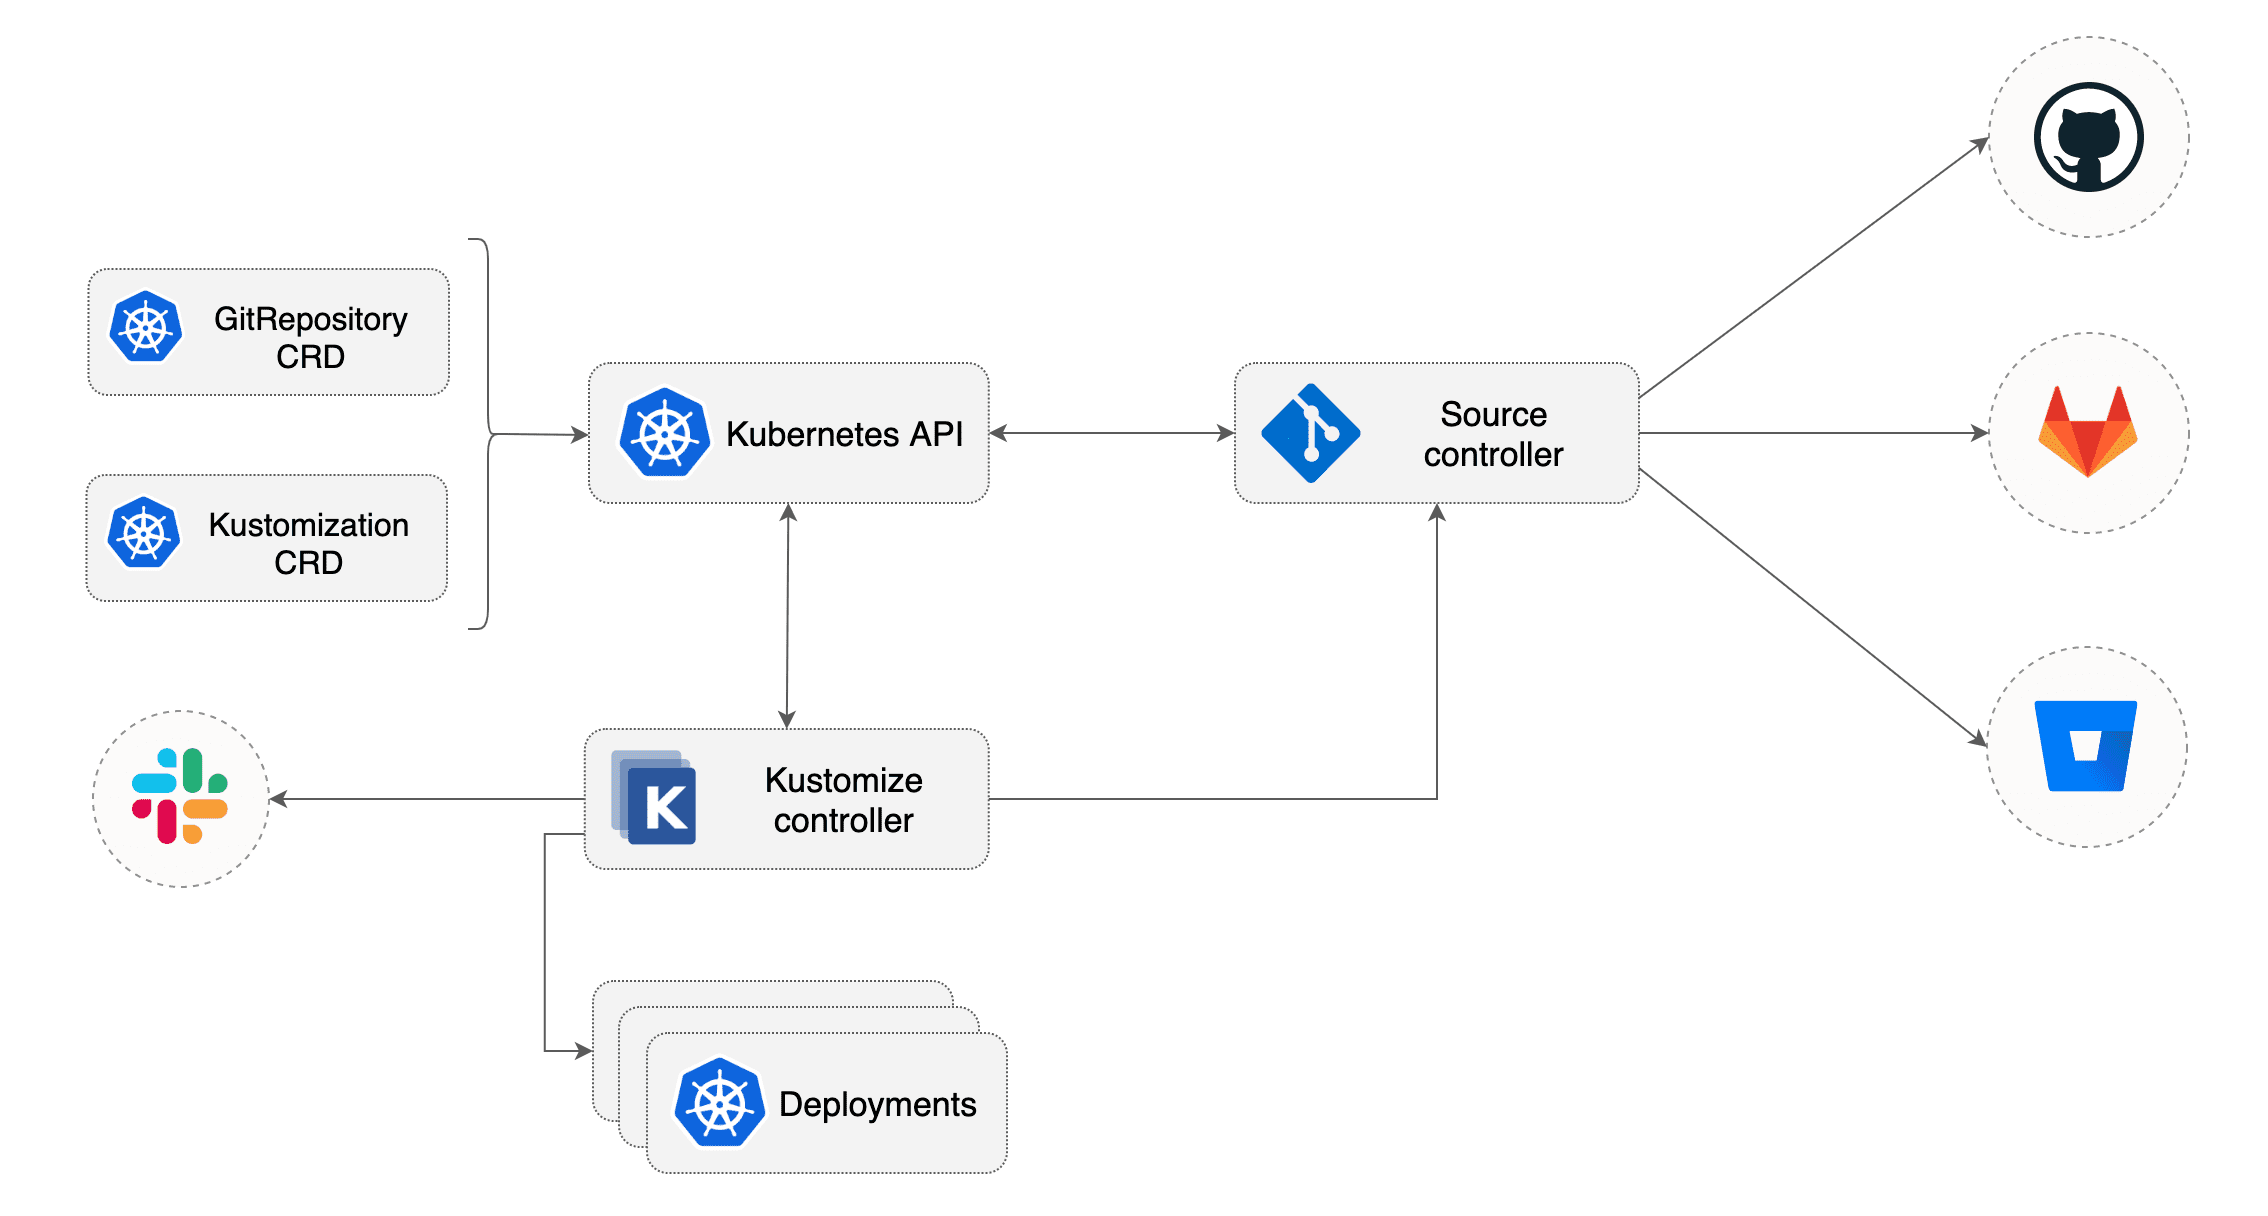
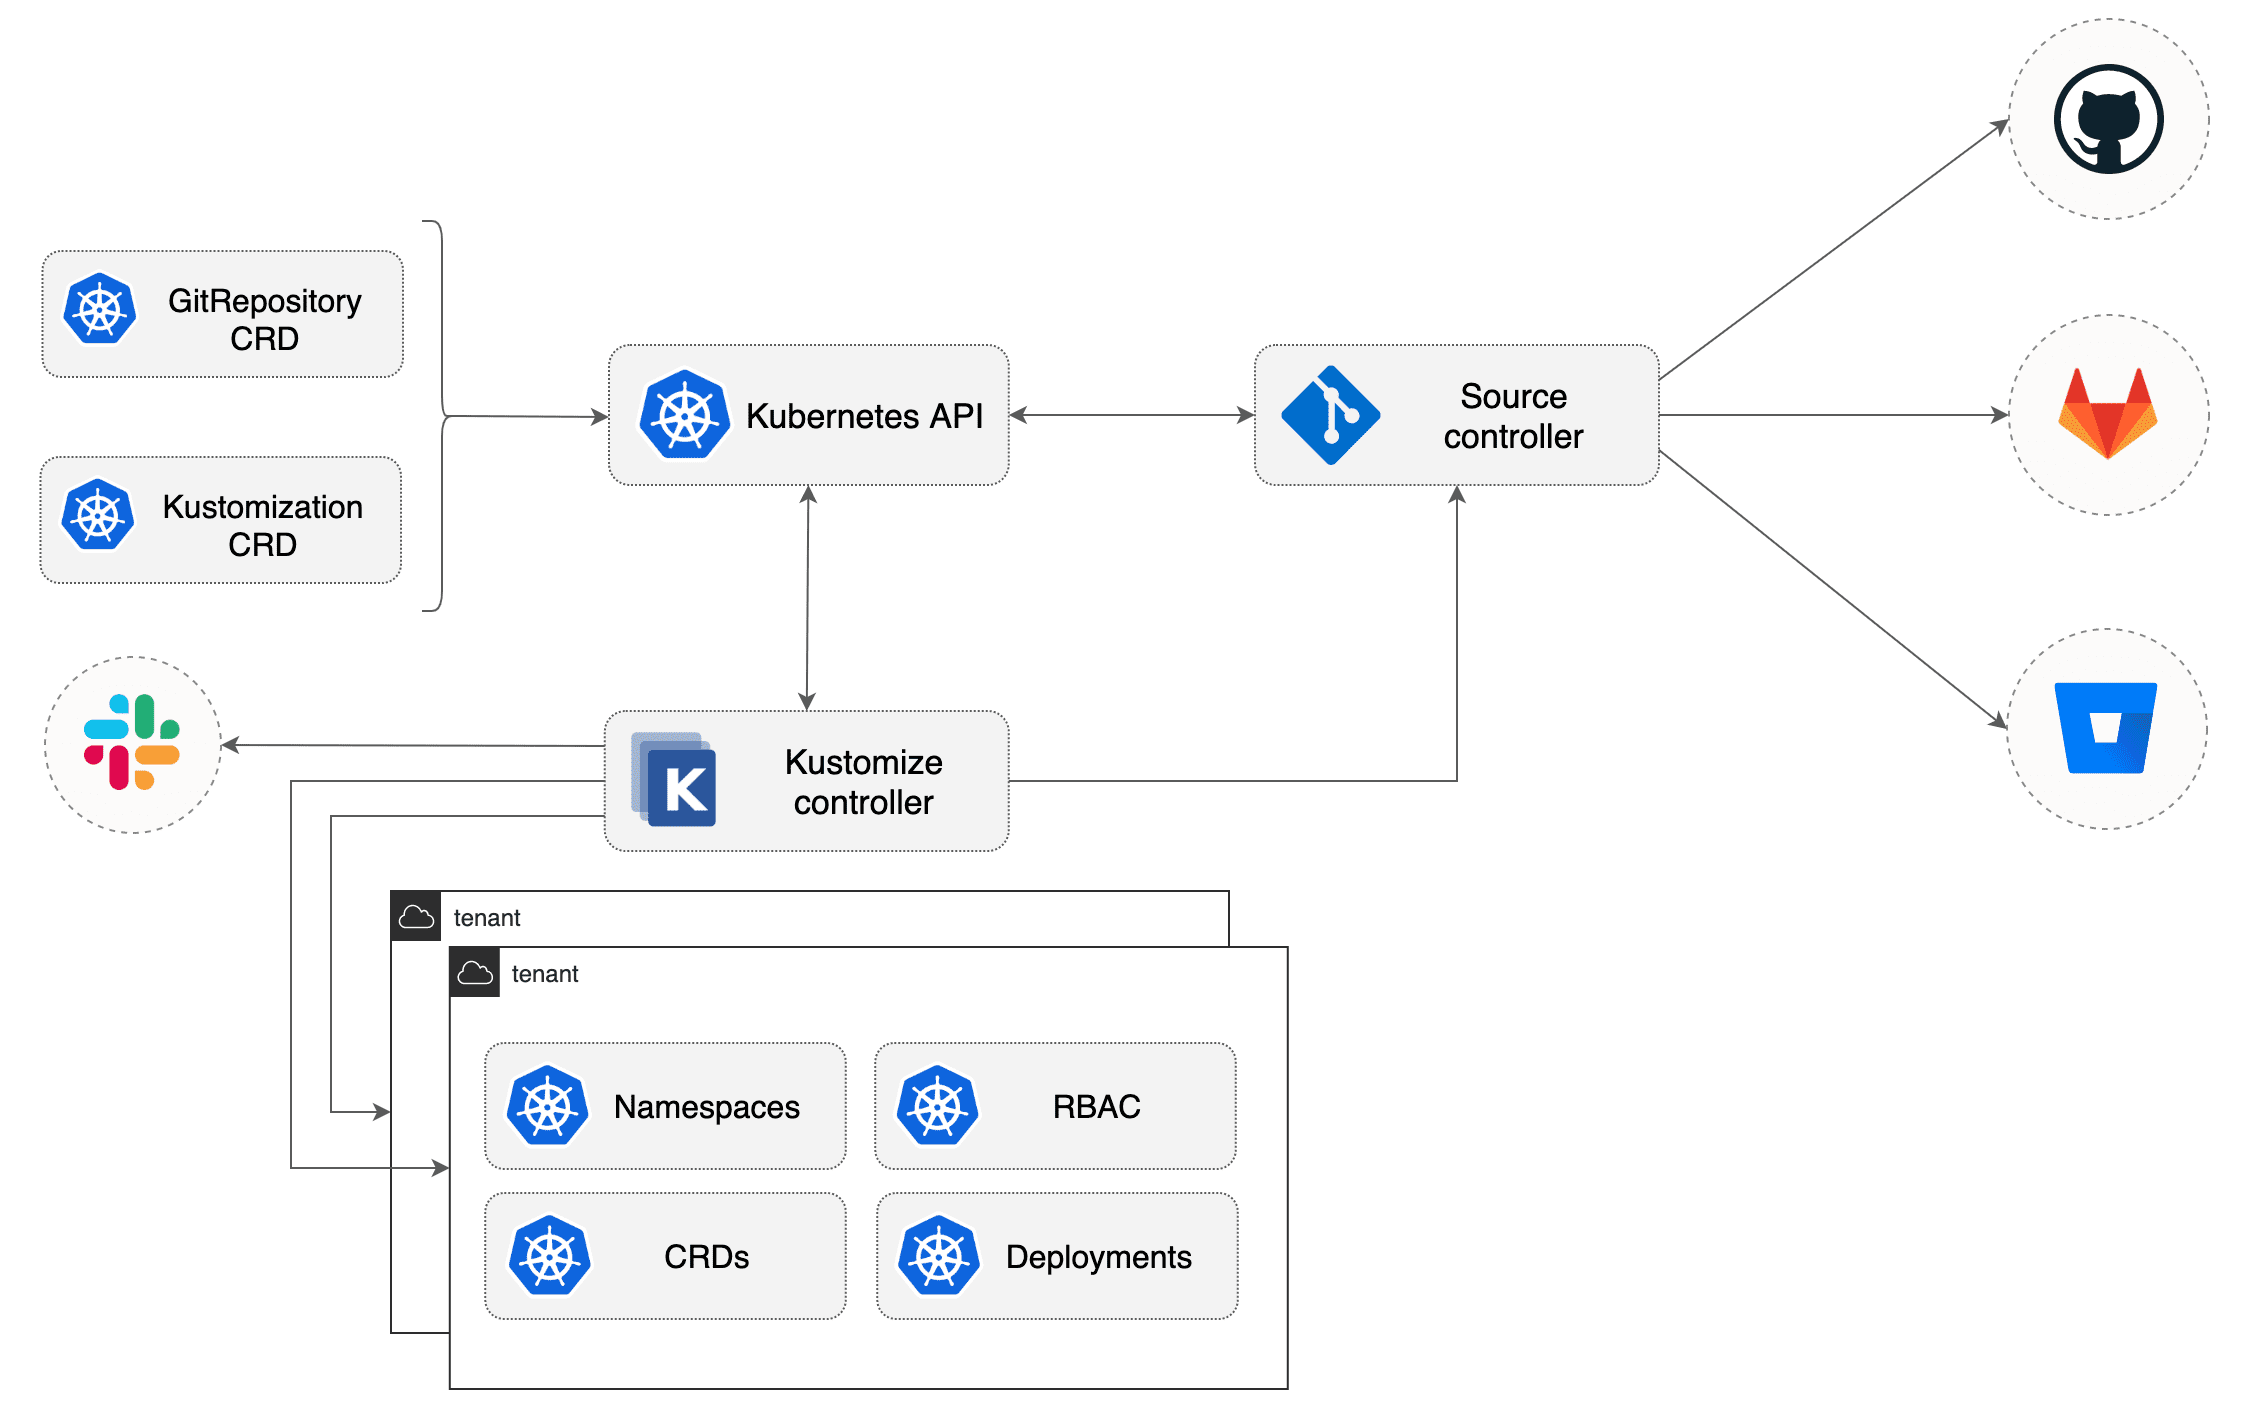
Release v0.0.1-alpha.6

diff --git a/CHANGELOG.md b/CHANGELOG.md
@@ -2,6 +2,12 @@
 
 All notable changes to this project are documented in this file.
 
+## 0.0.1-alpha.6 (2020-05-03)
+
+This alpha release comes with
+[role-based access control](https://github.com/fluxcd/kustomize-controller/blob/master/docs/spec/v1alpha1/kustomization.md#role-based-access-control)
+for restricting the execution of a kustomization apply to a specific service account.
+
 ## 0.0.1-alpha.5 (2020-04-27)
 
 This alpha release introduces an [intermediate state](https://github.com/fluxcd/kustomize-controller/pull/21)

diff --git a/README.md b/README.md
@@ -46,7 +46,7 @@ kubectl apply -f-
 Install kustomize-controller with:
 
 ```bash
-kustomize build https://github.com/fluxcd/kustomize-controller//config/default?ref=v0.0.1-alpha.5 \
+kustomize build https://github.com/fluxcd/kustomize-controller//config/default?ref=v0.0.1-alpha.6 \
 kubectl apply -f-
 ```
 
